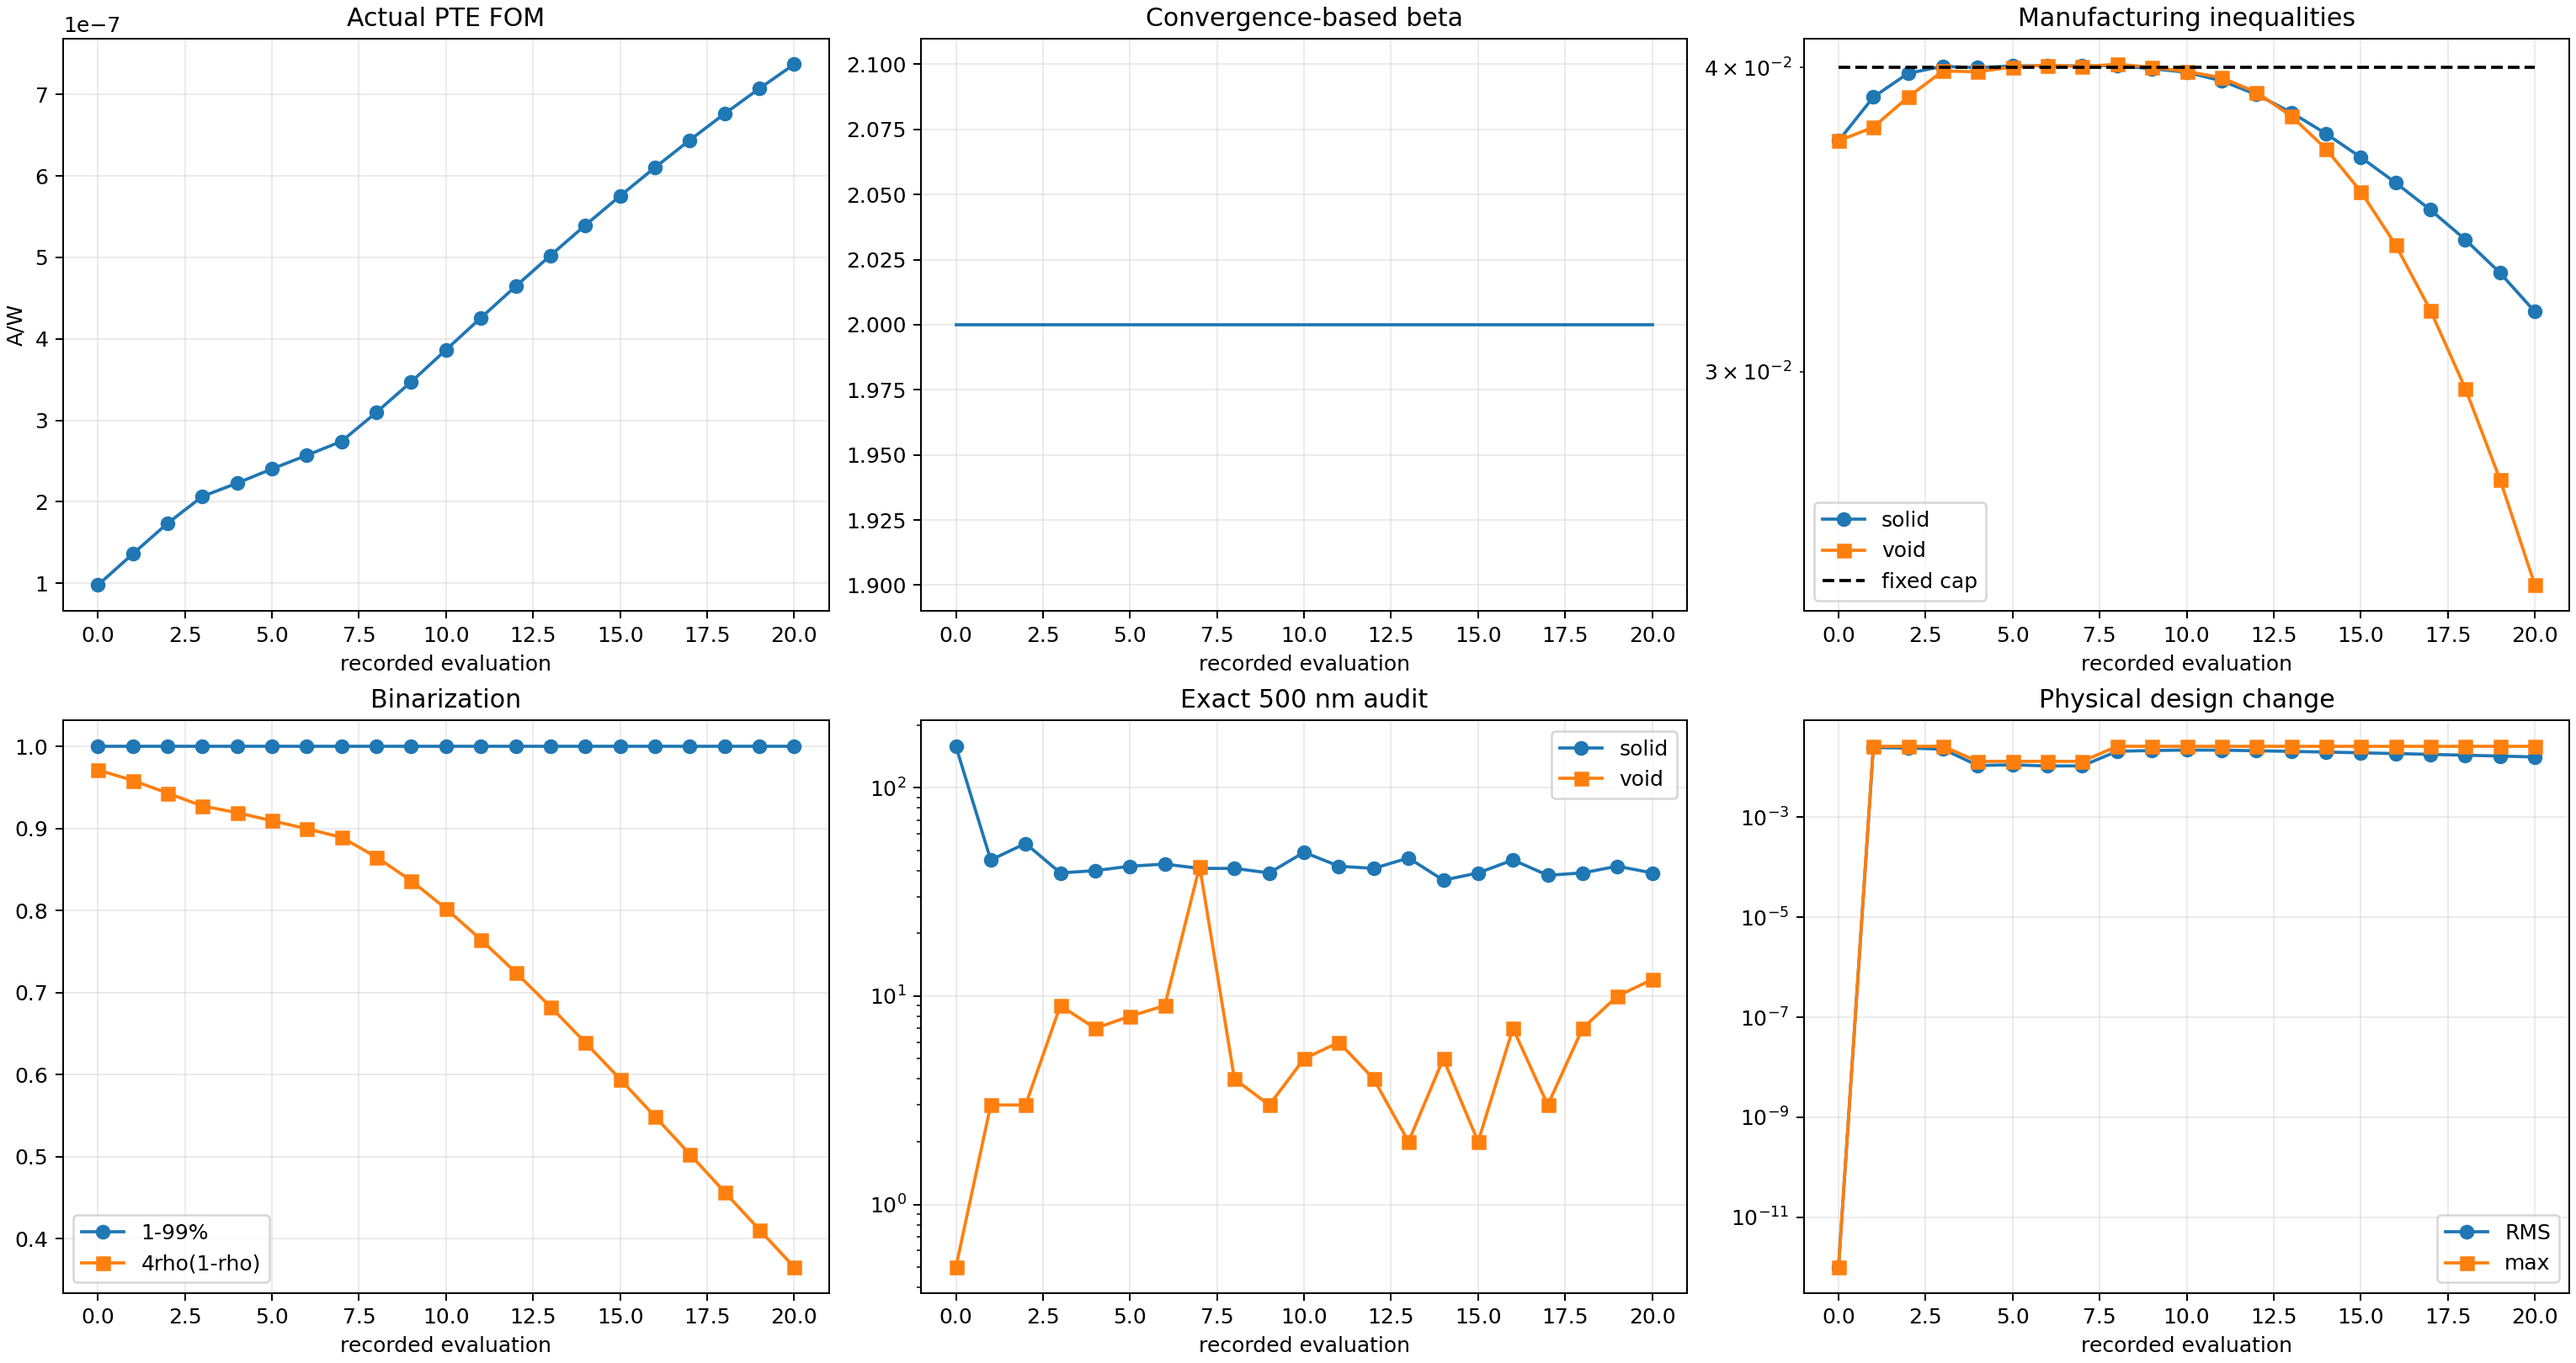
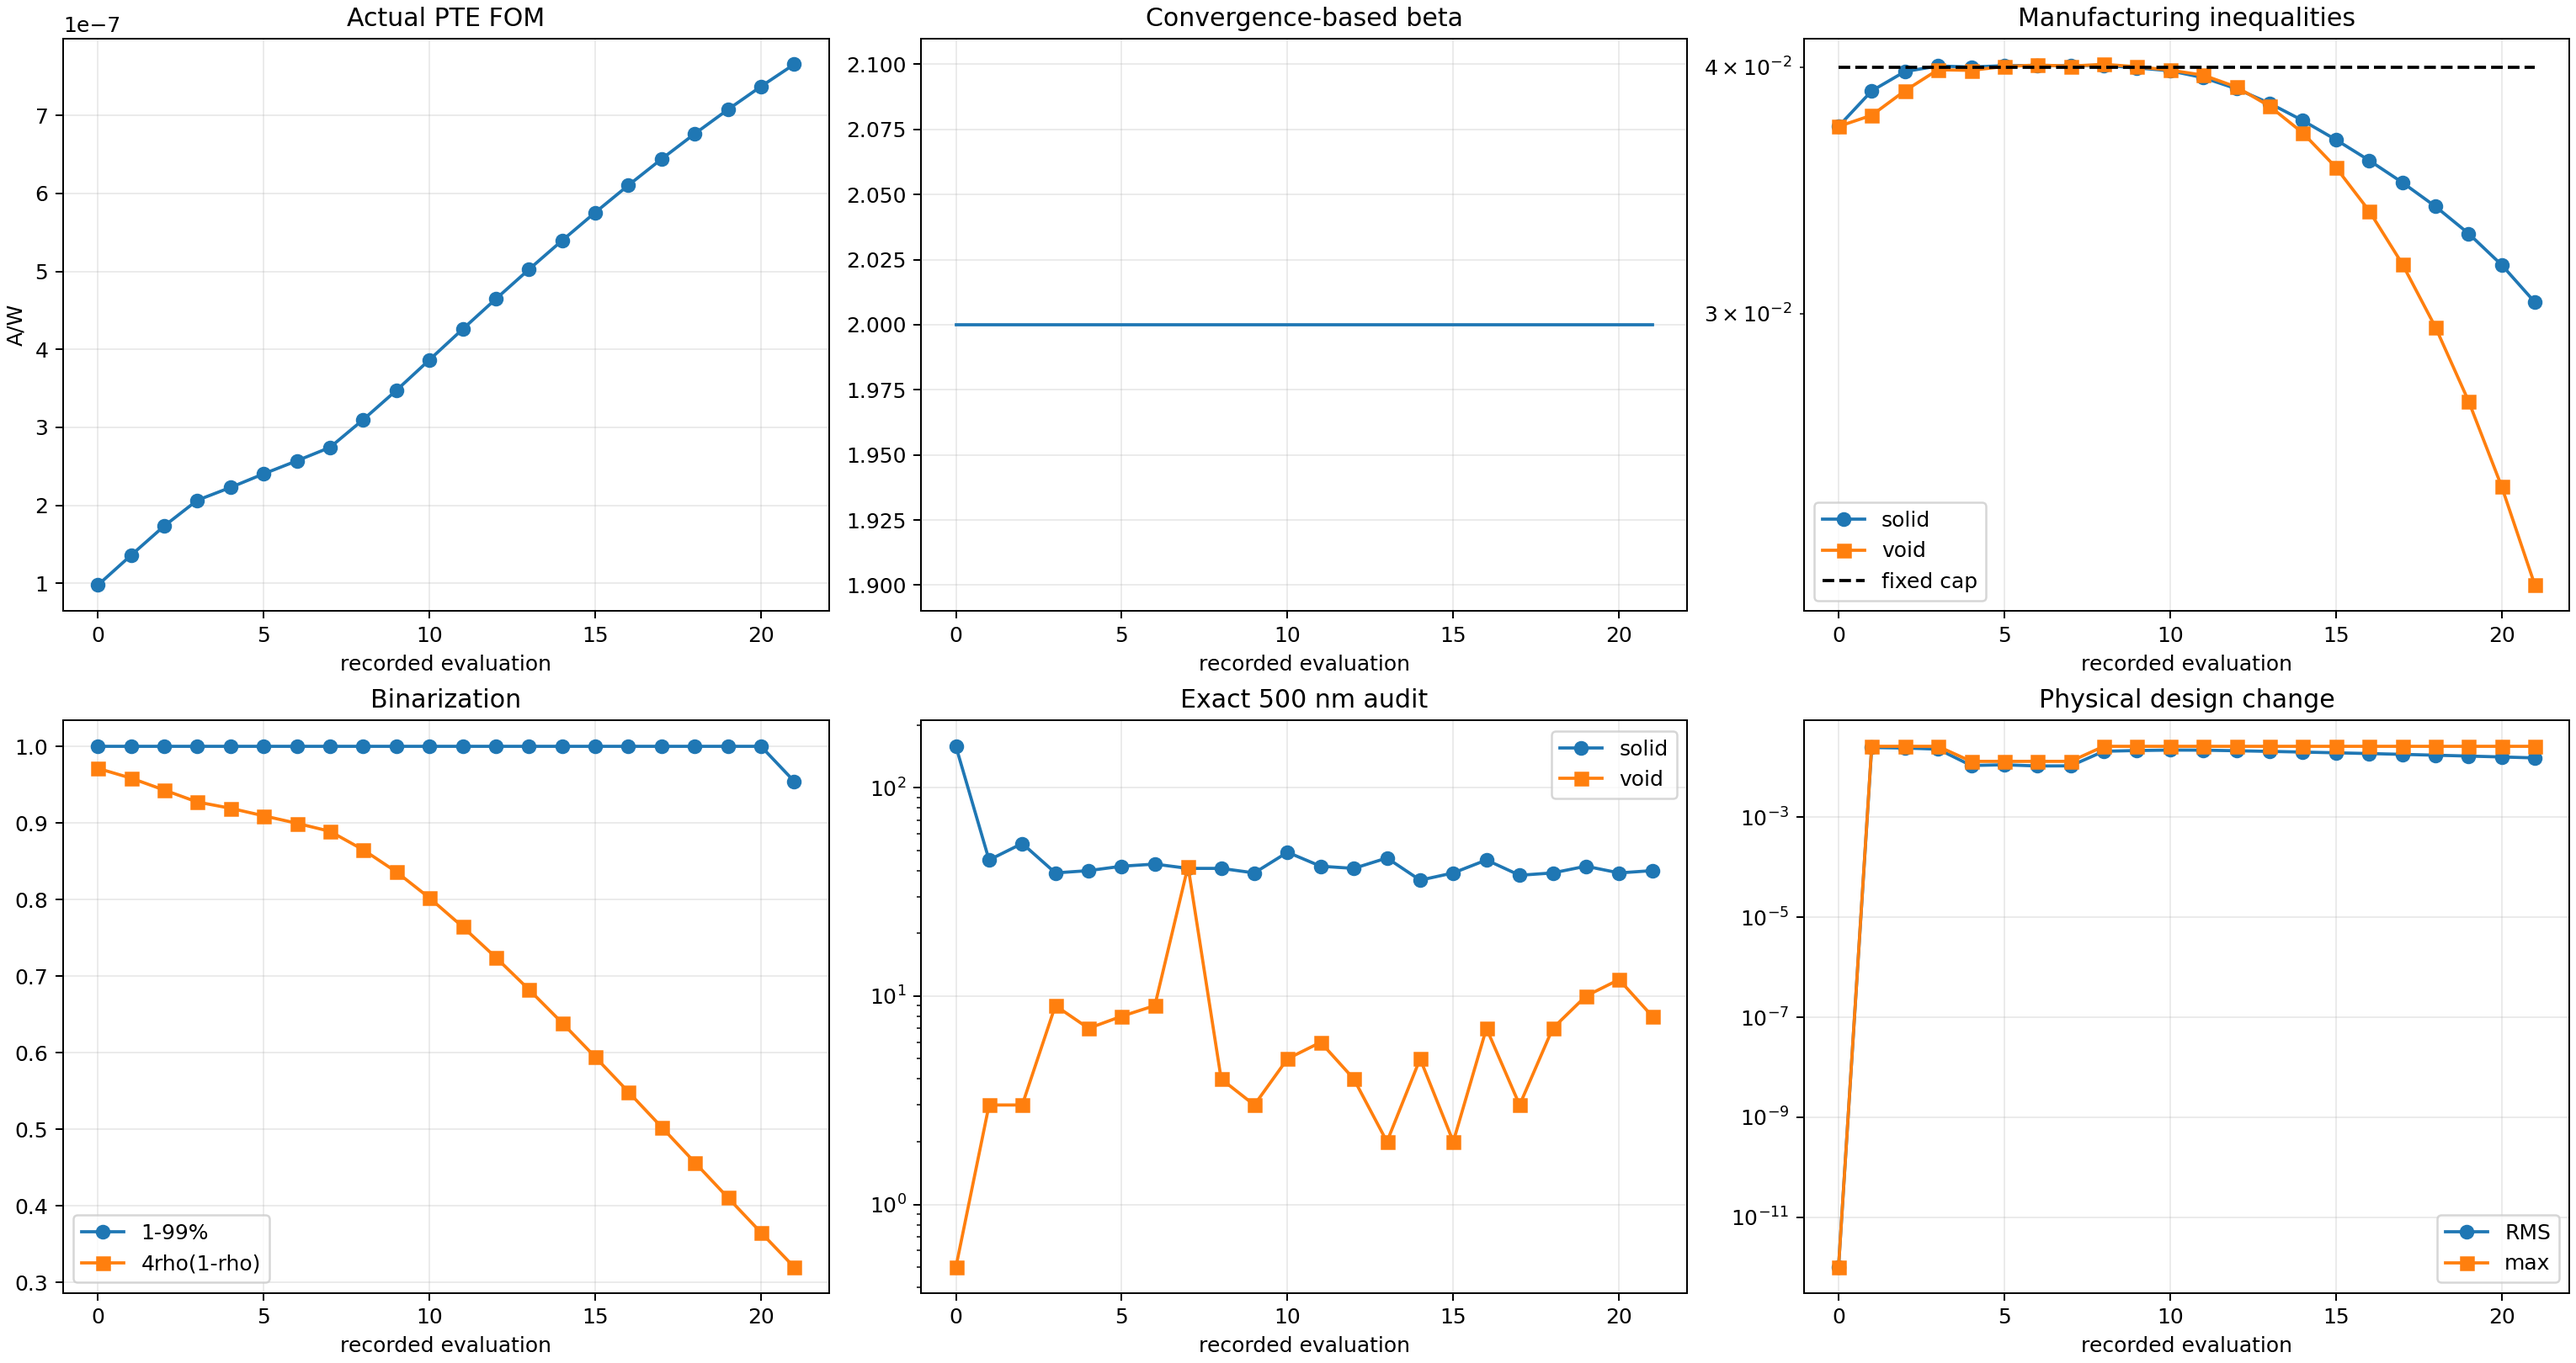
Record Run 003 run003_b002_s021_g021_accepted_mma

diff --git a/photothermal_pte/optimization_runs/run_003_gaussian10_w8p5_current_max_converged/results/OPTIMIZATION_REPORT.md b/photothermal_pte/optimization_runs/run_003_gaussian10_w8p5_current_max_converged/results/OPTIMIZATION_REPORT.md
@@ -2,10 +2,10 @@
 
 Status: `RUNNING_CONVERGENCE_BASED_CONSTRAINED_BETA_CONTINUATION`
 
-Current stage: beta=2, accepted stage iteration=20, global iteration=20.
+Current stage: beta=2, accepted stage iteration=21, global iteration=21.
 
-Actual FOM: `7.370867139237e-07 A/W`. Fixed-cap solid/void constraints: `3.174993e-02` / `2.451399e-02` with cap `4.000000e-02`.
+Actual FOM: `7.654271195321e-07 A/W`. Fixed-cap solid/void constraints: `3.039828e-02` / `2.185499e-02` with cap `4.000000e-02`.
 
-Exact 500 nm bad cells: solid `39`, void `12`. Stage convergence: `False` (recent FOM/density changes have not plateaued).
+Exact 500 nm bad cells: solid `40`, void `8`. Stage convergence: `False` (recent FOM/density changes have not plateaued).
 
 Beta is promoted only after fixed-inequality feasibility and a four-update FOM/design plateau; it is never promoted after one nominal update.
